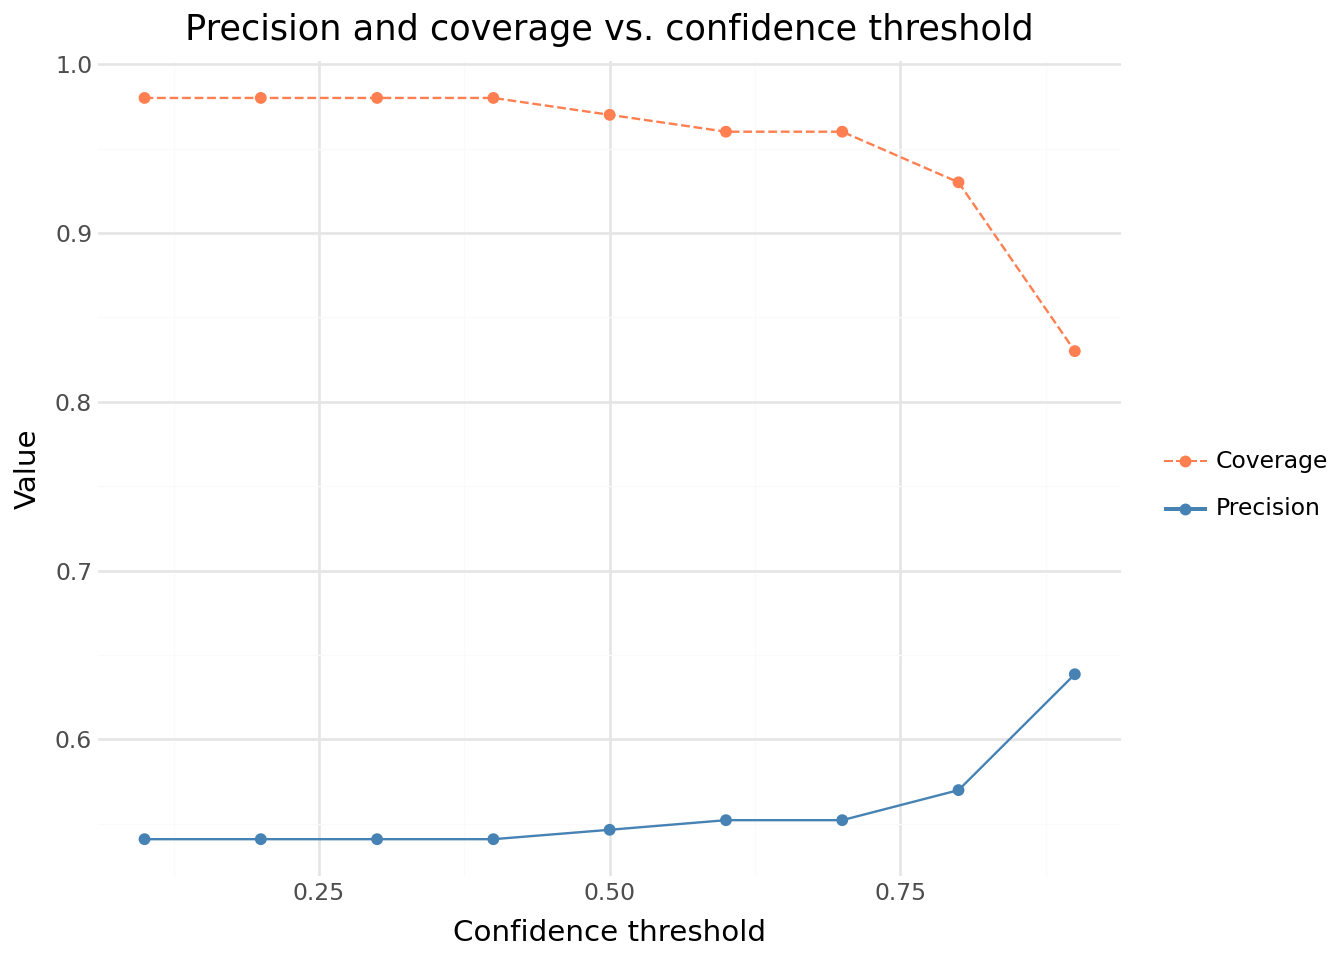
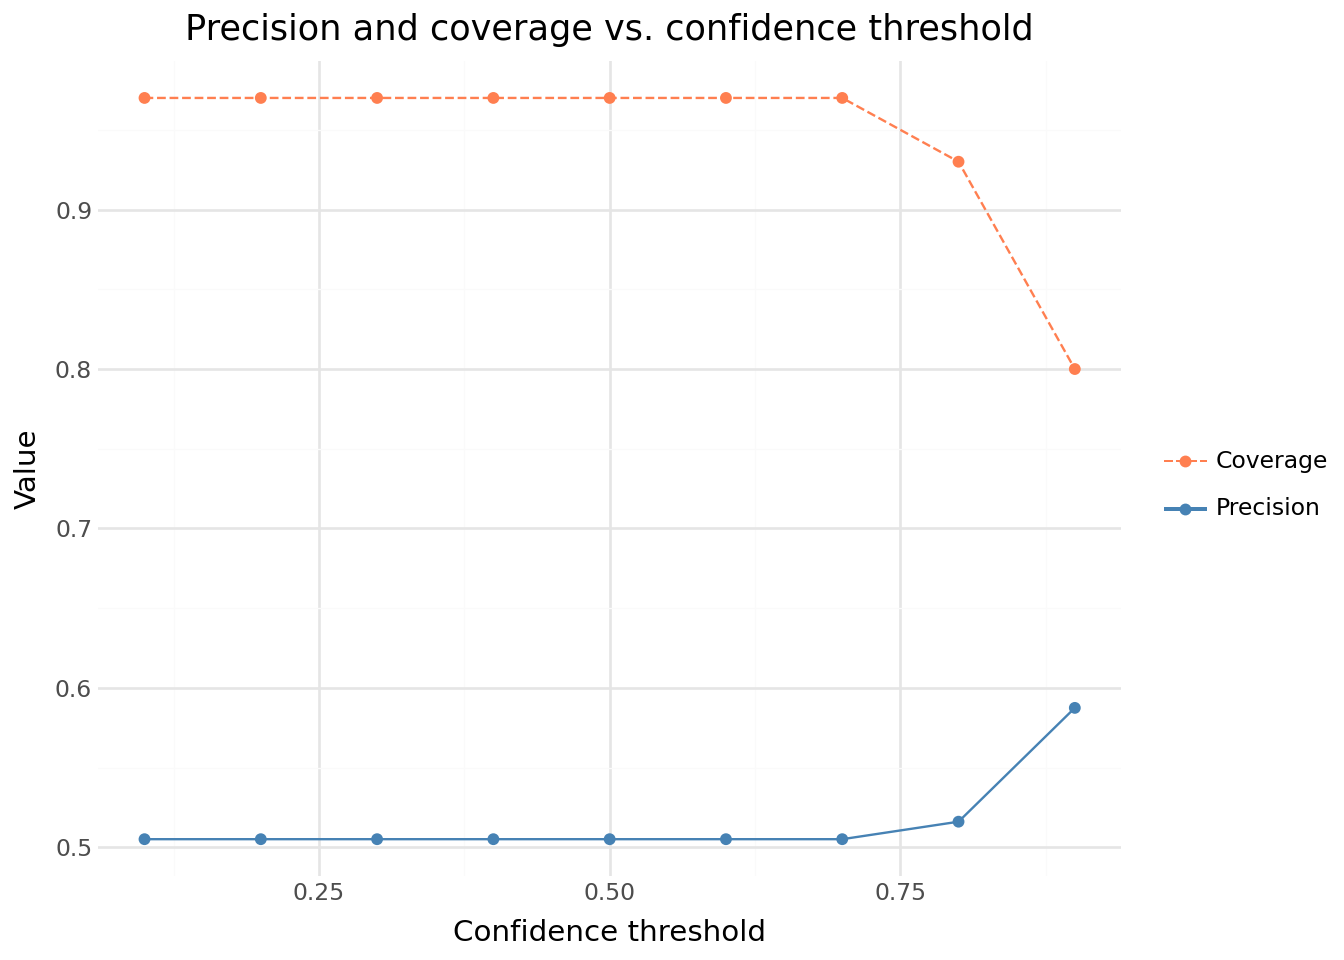
Built site for gh-pages

diff --git a/2-rag-generation.html b/2-rag-generation.html
@@ -656,12 +656,12 @@ Tip
 Keys: ['code', 'name', 'label']</code></pre>
 </div>
 <div id="get-data" class="cell-output cell-output-display" data-execution_count="9">
-<pre><code>[{'code': '43.22',
-  'name': 'Plumbing, heat and air-conditioning installation',
-  'label': 'Gas line fitting and certification services'},
- {'code': '94.99',
-  'name': 'Activities of other membership organisations n.e.c.',
-  'label': 'Youth group international exchange coordination'}]</code></pre>
+<pre><code>[{'code': '69.10',
+  'name': 'Legal activities',
+  'label': 'General legal advisory practice'},
+ {'code': '46.90',
+  'name': 'Non-specialised wholesale trade',
+  'label': 'Diverse product wholesale supply'}]</code></pre>
 </div>
 </div>
 <div class="callout callout-style-default callout-note callout-titled">
@@ -901,45 +901,45 @@ Note
 <tbody>
 <tr class="odd">
 <th data-quarto-table-cell-role="th">0</th>
-<td>Gas line fitting and certification services</td>
-<td>43.22</td>
-<td>43.22</td>
+<td>General legal advisory practice</td>
+<td>69.10</td>
+<td>69.10</td>
 <td>True</td>
 <td>True</td>
 <td>True</td>
 </tr>
 <tr class="even">
 <th data-quarto-table-cell-role="th">1</th>
-<td>Youth group international exchange coordination</td>
-<td>94.99</td>
-<td>85.6</td>
+<td>Diverse product wholesale supply</td>
+<td>46.90</td>
+<td>46.89</td>
 <td>False</td>
 <td>False</td>
 <td>None</td>
 </tr>
 <tr class="odd">
 <th data-quarto-table-cell-role="th">2</th>
-<td>Leased property income generation</td>
-<td>68.20</td>
-<td>68.2</td>
+<td>Learning ability evaluation and remediation</td>
+<td>85.69</td>
+<td>85.6</td>
 <td>False</td>
 <td>False</td>
 <td>None</td>
 </tr>
 <tr class="even">
 <th data-quarto-table-cell-role="th">3</th>
-<td>Routine disinfection services for public trans...</td>
-<td>81.23</td>
-<td>81.23</td>
+<td>Professional veterinary medical care</td>
+<td>75.00</td>
+<td>75.00</td>
 <td>True</td>
 <td>True</td>
 <td>True</td>
 </tr>
 <tr class="odd">
 <th data-quarto-table-cell-role="th">4</th>
-<td>Software maintenance and update activities</td>
-<td>62.10</td>
-<td>62.10</td>
+<td>Commercial video programme development</td>
+<td>59.11</td>
+<td>59.11</td>
 <td>True</td>
 <td>True</td>
 <td>True</td>
@@ -966,8 +966,8 @@ Note
 <span id="cb18-3"><a href="#cb18-3" aria-hidden="true" tabindex="-1"></a><span class="bu">print</span>(<span class="ss">f"  → </span><span class="sc">{</span>results[<span class="st">'retriever_hit'</span>]<span class="sc">.</span><span class="bu">sum</span>()<span class="sc">}</span><span class="ss"> / </span><span class="sc">{</span><span class="bu">len</span>(results)<span class="sc">}</span><span class="ss"> correctly retrieved"</span>)</span></code></pre></div><button title="Copy to Clipboard" class="code-copy-button"><i class="bi"></i></button></div>
 </details>
 <div class="cell-output cell-output-stdout">
-<pre><code>Retriever@5 accuracy: 58.0%
-  → 58 / 100 correctly retrieved</code></pre>
+<pre><code>Retriever@5 accuracy: 53.0%
+  → 53 / 100 correctly retrieved</code></pre>
 </div>
 </div>
 <hr>
@@ -988,8 +988,8 @@ Note
 <span id="cb20-5"><a href="#cb20-5" aria-hidden="true" tabindex="-1"></a><span class="bu">print</span>(<span class="ss">f"  → </span><span class="sc">{</span>retriever_success[<span class="st">'pipeline_correct'</span>]<span class="sc">.</span><span class="bu">sum</span>()<span class="sc">}</span><span class="ss"> / </span><span class="sc">{</span><span class="bu">len</span>(retriever_success)<span class="sc">}</span><span class="ss"> correctly coded by the LLM"</span>)</span></code></pre></div><button title="Copy to Clipboard" class="code-copy-button"><i class="bi"></i></button></div>
 </details>
 <div class="cell-output cell-output-stdout">
-<pre><code>LLM accuracy (conditional on retriever): 91.4%
-  → 53 / 58 correctly coded by the LLM</code></pre>
+<pre><code>LLM accuracy (conditional on retriever): 92.5%
+  → 49 / 53 correctly coded by the LLM</code></pre>
 </div>
 </div>
 <hr>
@@ -1010,10 +1010,10 @@ Note
 <span id="cb22-6"><a href="#cb22-6" aria-hidden="true" tabindex="-1"></a><span class="bu">print</span>(<span class="ss">f"Cross-check: Retriever@k × LLM = </span><span class="sc">{</span>retriever_accuracy<span class="sc">:.3f}</span><span class="ss"> × </span><span class="sc">{</span>llm_accuracy<span class="sc">:.3f}</span><span class="ss"> = </span><span class="sc">{</span>retriever_accuracy <span class="op">*</span> llm_accuracy<span class="sc">:.1%}</span><span class="ss">"</span>)</span></code></pre></div><button title="Copy to Clipboard" class="code-copy-button"><i class="bi"></i></button></div>
 </details>
 <div class="cell-output cell-output-stdout">
-<pre><code>Pipeline accuracy (end-to-end)          : 53.0%
-  → 53 / 100 correctly coded
+<pre><code>Pipeline accuracy (end-to-end)          : 49.0%
+  → 49 / 100 correctly coded
 
-Cross-check: Retriever@k × LLM = 0.580 × 0.914 = 53.0%</code></pre>
+Cross-check: Retriever@k × LLM = 0.530 × 0.925 = 49.0%</code></pre>
 </div>
 </div>
 <hr>
@@ -1054,14 +1054,14 @@ Cross-check: Retriever@k × LLM = 0.580 × 0.914 = 53.0%</code></pre>
       DASHBOARD — RAG PIPELINE NACE 2.1
 ====================================================
   Activities processed        :    100
-  Correctly coded             :     53  (53.0%)
+  Correctly coded             :     49  (49.0%)
 
-  Retriever@5 accuracy        :  58.0%
-  LLM accuracy (conditional)  :  91.4%
-  Pipeline accuracy           :  53.0%
+  Retriever@5 accuracy        :  53.0%
+  LLM accuracy (conditional)  :  92.5%
+  Pipeline accuracy           :  49.0%
 
-  Retriever errors            :     42  (42.0%)
-  LLM errors                  :      5  (5.0%)
+  Retriever errors            :     47  (47.0%)
+  LLM errors                  :      4  (4.0%)
 ====================================================</code></pre>
 </div>
 </div>

diff --git a/1-ttc.html b/1-ttc.html
@@ -1135,7 +1135,8 @@ To sample random texts, you can use for instance <code>random.sample(range(len(X
 <p>In this notebook we learnt how to:</p>
 <ul>
 <li><strong>Load and explore</strong> a labelled dataset of business activity descriptions mapped to NACE codes.</li>
-<li><strong>Split</strong> the data into train, validation, and test sets, and encode the string labels to integers with <code>LabelEncoder</code>.</li>
+<li><strong>Preprocess</strong> the data: split into train, validation, and test sets, and encode the string labels to integers with <code>LabelEncoder</code>.</li>
+<li><strong>Use the <code>torchTextClassifiers</code> package</strong> to handle the full workflow: encoding textual labels, training a tokenizer, building a classifier, and explaining its predictions.</li>
 <li><strong>Train a WordPiece tokenizer</strong> from scratch on the training corpus, adapting the subword vocabulary to French domain-specific text.</li>
 <li><strong>Configure and train</strong> a neural text classifier end-to-end using <code>torchTextClassifiers</code>, with <a href="https://mlflow.org/docs/latest/index.html">MLflow</a> tracking metrics in real time.</li>
 <li><strong>Load a pretrained model</strong> from <a href="https://mlflow.org/docs/latest/index.html">MLflow</a> artefact storage, so the full-dataset model is available without waiting hours for training.</li>
